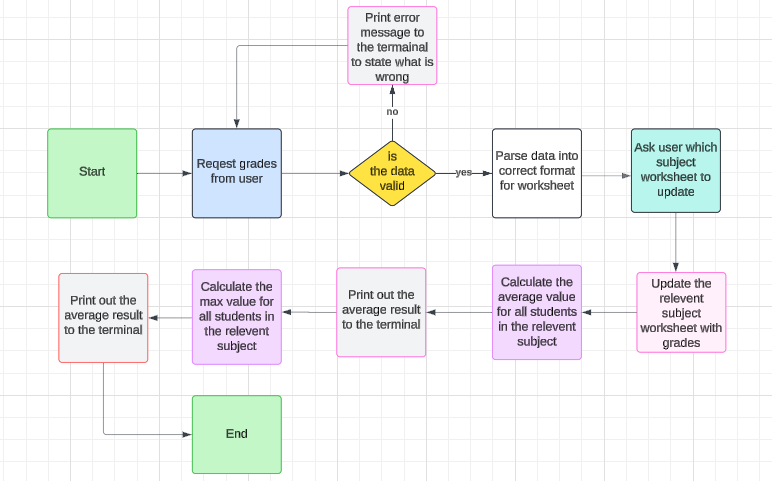
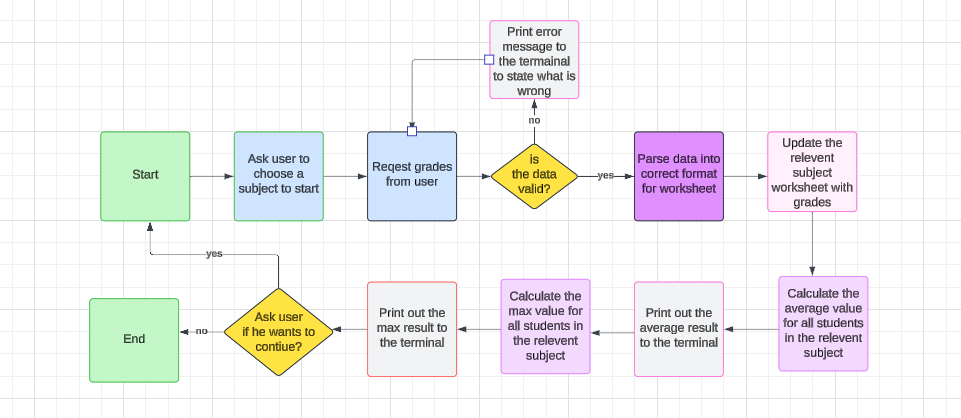
edit README.md file

diff --git a/run.py b/run.py
@@ -232,7 +232,7 @@ def main():
         print("\nThis program accepts a list of grades for 5 students,\n"
               "and a choosen(subject), then insert the grades in a worksheet.\n"
               "the worksheet contains 3 subjects (Math, Science, Biology),\n"
-              "and hosted in Google Sheets the link is below.\n")
+              "and hosted in Google Sheets.\n")
         subject = read_subject_name()
         values = get_grades()
         grades = [int(value) for value in values]

diff --git a/README.md b/README.md
@@ -17,39 +17,61 @@
 
 **Existing Features**
 
-- The Header
-  - The Header placed at the top of the page and shows the name of the game: Random Rock, Paper, Scissors
-    in a clear playfull font that contrasts with the background.
-  - The header tells the user clearly what game they are playing.
-![](/assets/images/readme/testing/header.png)
+- The Starting message
+  - the program starts with a message to introduce itself and descripes what it does like it receives subject
+    name as anumber and then displays the name of subjects and waits the user to enter his choice.
 
-- The Game Options
-  - The game options contain a clear instructions and a choice to play Rock, Paper or Scissors  
-  - The choices section is an interactive Buttons that allow the player to click and then choose the 
-    appropriate role.
+![](/media/starting.png)
 
-    ![](/assets/images/readme/testing/options.png)
-- The Results
-  * When the Players click a button the relevant image is displayed in their side of the game board.
-  + when a player clicks abutton the JavaScript code automaticaly chooses a random option(image) 
-    in the computer side of the game board.
-  * according to an algorithm the computer determines who is the winner.
-  - The winner is announced to the player under the options buttons and the result score is updated for 
-    either the player or the computer.
-  + The Result and the Score is displayed clearly to the user making it easy to understand
-      who has won and the resulted **Score**.
-      ![](/assets/images/readme/testing/result.png)
-- New Feature added
-  - After 5 times of playing the final **Winner** is announced and the scores are reseted.
-  ![](/assets/images/readme/testing/final-winner.png)
-- The footer
-  - The footer located in the bottom of the page and displays the rules of the game.
-  - The footer is available to the user because it clearly shows the rules to understand
-     how the game is played.
-     ![](/assets/images/readme/testing/footer.png)
+- Enter grades
+  - It prompts user to choose a subject name and input grades and gives a sample example.
+
+    ![](/media/enter-grades.png)
+
+- Progress
+  * It shows the program progress.
+
+    ![](/media/progress.png)
+- Results
+
+  * It calculates the average and max value of the grades in a subject choosen from user
+    and print it out to the terminal
+
+    ![](/media/calculations.png)
+
++ Continue possibility
+
+  + It gives the user possibility to continue the program to update another worksheet and prints the results
+  
+      ![](/media/continue.png)
+
+- Terminate the program
+  - It terminates the program when user finished updating all subjects saying(bye!)
+
+    ![](/media/terminate.png)
+
+- Input validation and error checking
+
+  - It validates all user inputs and displayes the relevant message
+
+     ![](/media/checknumber.png)
+  + You cann't enter a string where an integer number expected
+    
+     ![](/media/validate-numbers.png)
+    
+- Grades Validation
+
+  * It does not accepts negative grades
+    
+     ![](/media/negative.png) 
+
+  + You cann't enter grades out of range (0-100)
+
+    ![](/media/outofrange.png) 
 
 **Features Left to Implement**
-- I would like to extend this game in the future to  **rock paper scissors lizard spock**.
+- I would expand the project to accept more students and subjects.
++ 
 ## Testing
   - The game works on different web browsers like Chrome, Firefox and Edge.
   - The results are always correct.
